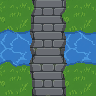
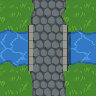
Glory of Rome: river bridges carry the road across between parapets, in every province

Changed region(s): [[0.2812, 0.0, 0.75, 1.0]]

diff --git a/tools/romeart.py b/tools/romeart.py
@@ -2091,18 +2091,12 @@ def cmd_zone(argv):
             if os.path.exists(p):
                 Image.open(p).save(os.path.join(out, f))
 
-    # 6. The two river bridges: the pack's own paving swept across a river piece.
-    for deck, over, name in (("bridge_v.png", "river_ew.png", "bridge_river_ns.png"),
-                             ("bridge_h.png", "river_ns.png", "bridge_river_ew.png")):
-        if not os.path.isdir(os.path.join(prim, "river")):
-            break
-        dst = os.path.join(stage, "bridge_" + name[14:16])
-        _roadtile(["romeart", os.path.join(prim, "river"), dst, "--sweep",
-                   "--fill", os.path.join(PACK, "art", "tiles", deck),
-                   "--grass", os.path.join(stage, "rivers", over),
-                   "--rim", "3", "--rim-shade", "0.7"])
-        piece = "road_ns.png" if name.endswith("ns.png") else "road_ew.png"
-        Image.open(os.path.join(dst, piece)).save(os.path.join(out, name))
+    # 6. The two river bridges: the road carried across the river between
+    #    parapets, its shadow on the water (cmd_bridge, style c).
+    if os.path.exists(os.path.join(out, "river_ns.png")) and os.path.exists(os.path.join(out, "road_ew.png")):
+        cmd_bridge([out, os.path.join(stage, "bridges")])
+        for name in ("bridge_river_ew.png", "bridge_river_ns.png"):
+            Image.open(os.path.join(stage, "bridges", "c", name)).save(os.path.join(out, name))
 
     # 7. The river mouths: east built, west its mirror (as Italia's were).
     if os.path.exists(os.path.join(out, "water_edge_02.png")):

diff --git a/art/primitives/galliae/BUILD.md b/art/primitives/galliae/BUILD.md
@@ -20,9 +20,10 @@ What `zone` has done with them, in order:
                        and the fewest grass pixels showing (36)
     road_*, river_*    romeart.py sweep --rim 2 --rim-shade 0.8 over grass.png; the rivers
                        again over forest.png and mountain.png (river_forest_*, river_mountain_*)
-    bridge_river_ns    sweep --fill the pack's bridge_v.png over river_ew.png, --rim 3
-                       --rim-shade 0.7, taking road_ns; bridge_river_ew is bridge_h.png over
-                       river_ns.png, taking road_ew
+    bridge_river_*     romeart.py bridge over the built road and river pieces, style c: the
+                       road's own cobbles across the river between pale parapets, a shadow
+                       on the water (2026-10-02; Africa and Oriens the same, Italia from
+                       its installed tiles)
     river_mouth_e      romeart.py mouth over water_edge_02.png; river_mouth_w is its mirror
 
 Galliae has had no desert, so the desert names have fallen back to the master set. The *_teal,

diff --git a/docs/ART-PIPELINE.md b/docs/ART-PIPELINE.md
@@ -196,6 +196,14 @@ generated from.
   (`rd_pro__topdown`), no background removal, no water in the picture: the
   original tile has had none, and a transparent deck over water has not come
   back usable.
+- **River bridges** (`bridge_river_ew`, `bridge_river_ns`) — not generated.
+  `tools/romeart.py bridge <tiles-dir> <out>` has built them from a set's
+  installed `road_*`, `river_*` and `grass` tiles: the road's own pixels laid
+  across the river piece, so the deck joins the road by construction; over
+  the water a straight deck between two 5 px parapets (the road's stone mixed
+  40/60 with pale travertine, a dark outer line, a joint every 8 px); and the
+  deck's shadow on the water, 3 px at 0.6. Style `c` has been installed in
+  every province (2026-10-02); `zone` runs it as its sixth step.
 - **Terrain edges** — not generated. `tools/romeart.py edges` has
   composited each from the installed base and grass tiles: the original
   48x34 edge tile under `art/reference/edges/` has been read as a shape (each
